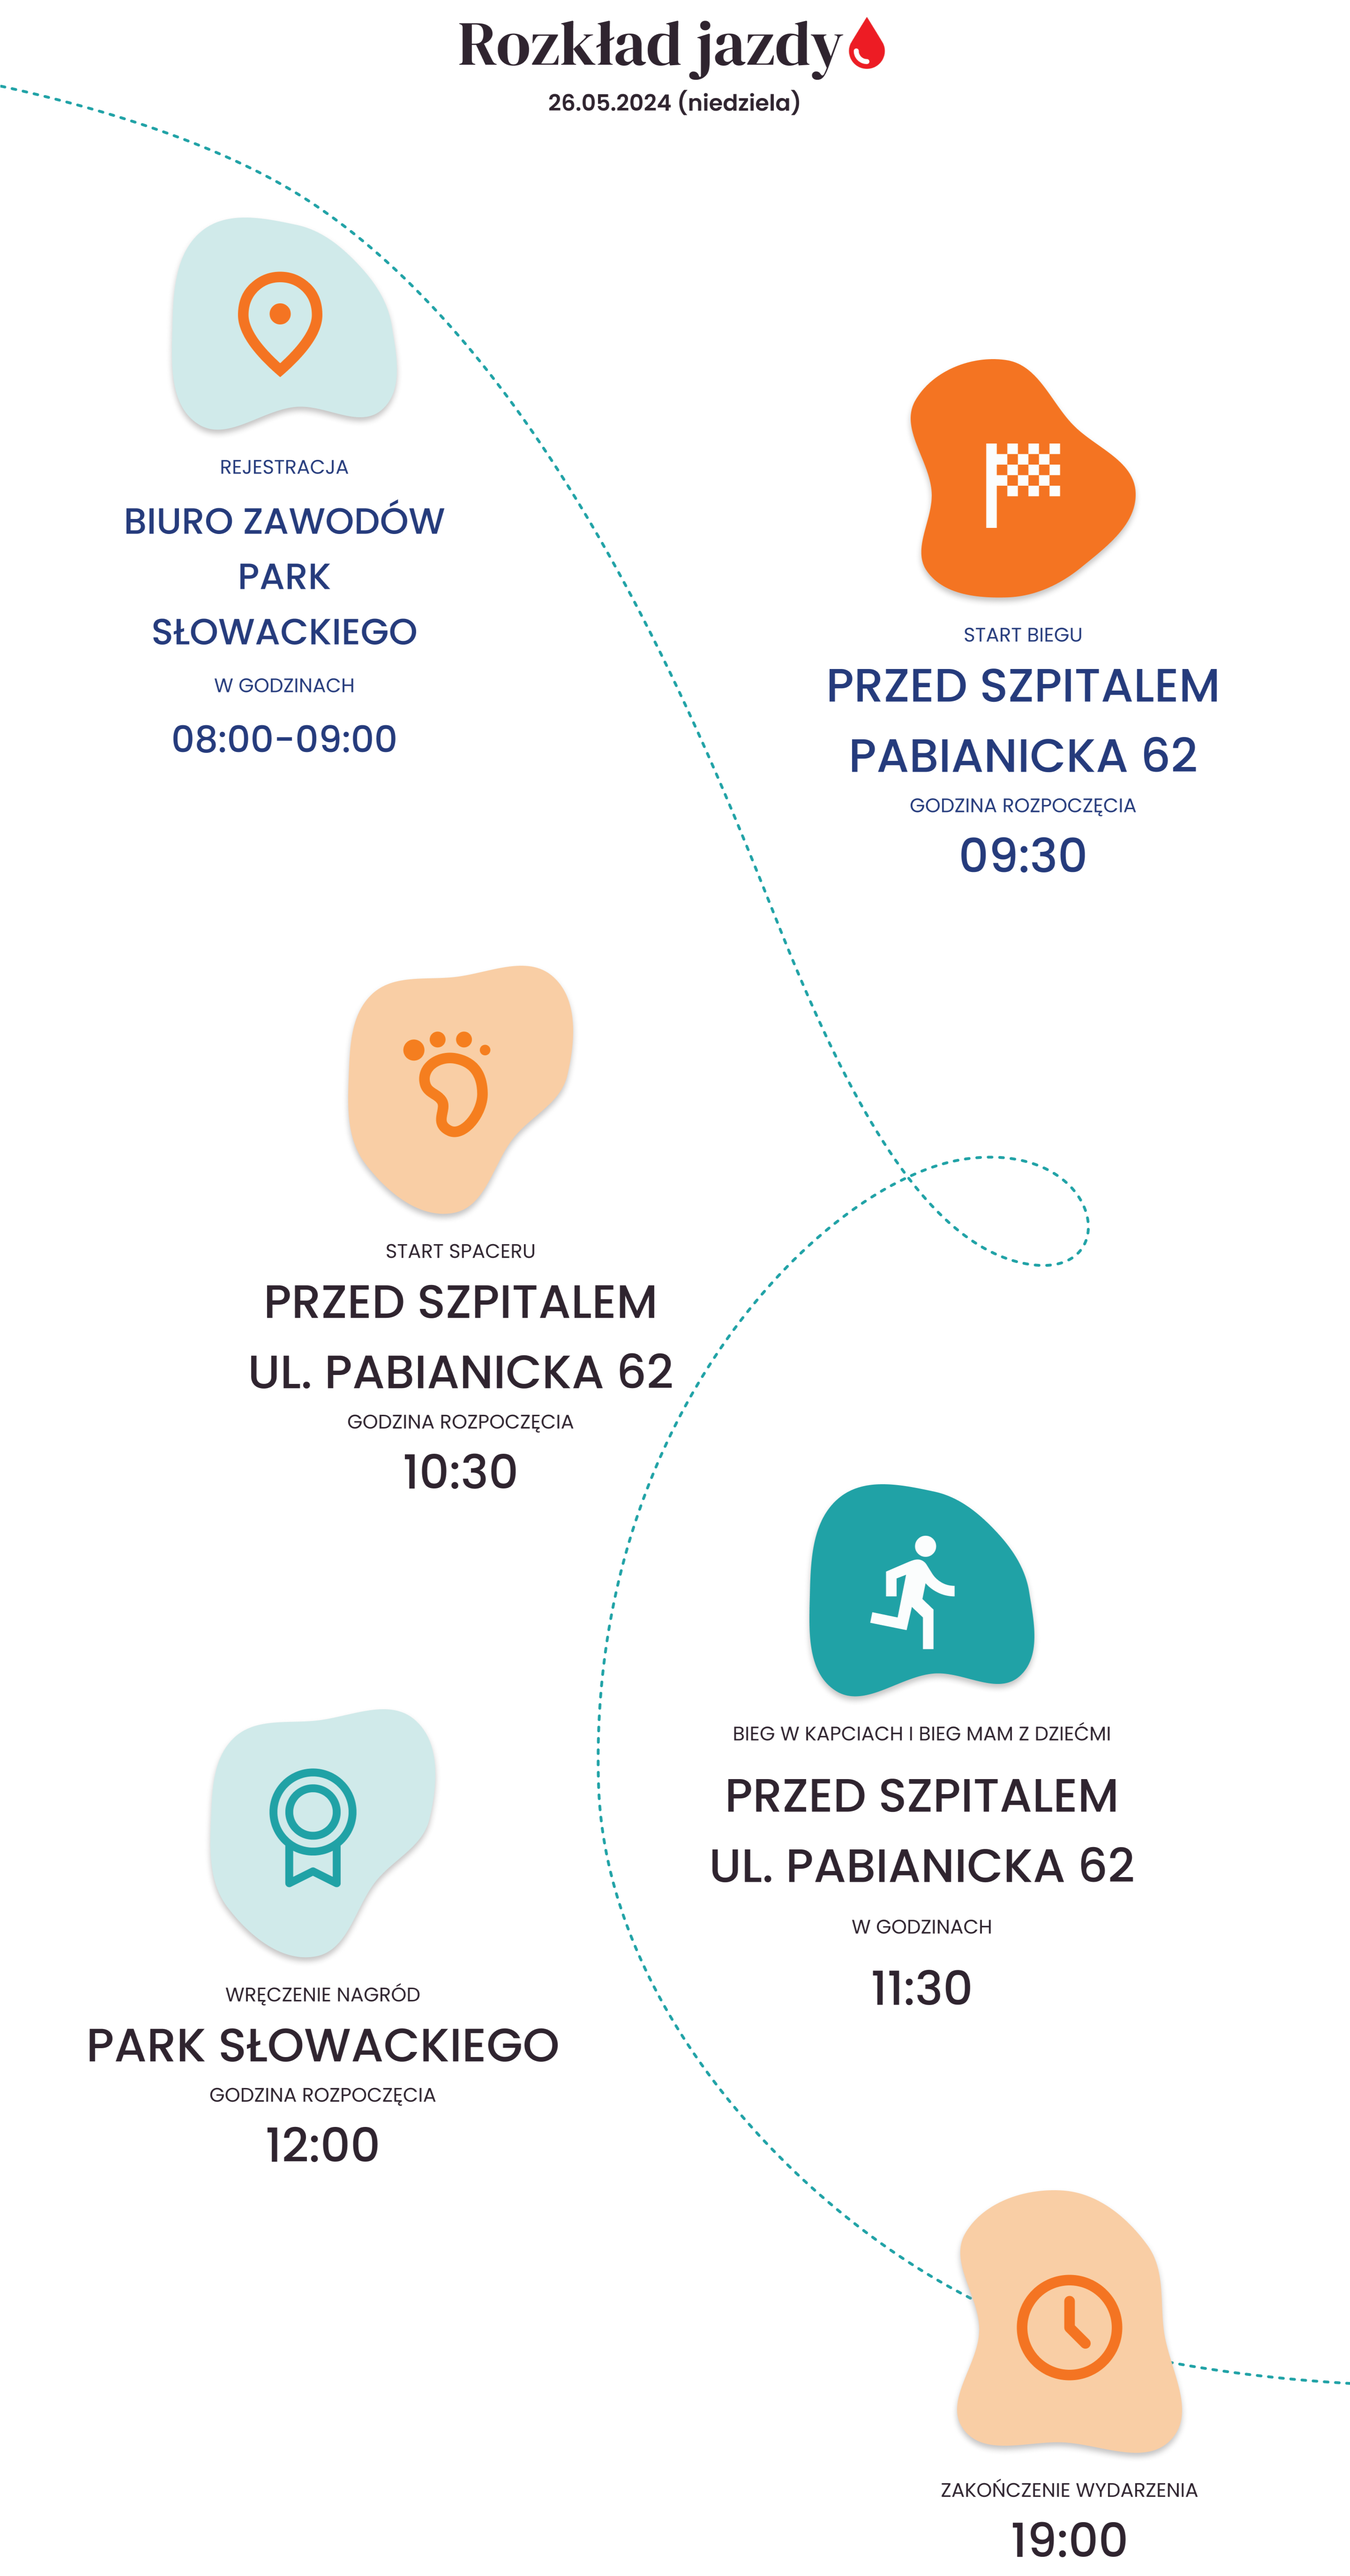
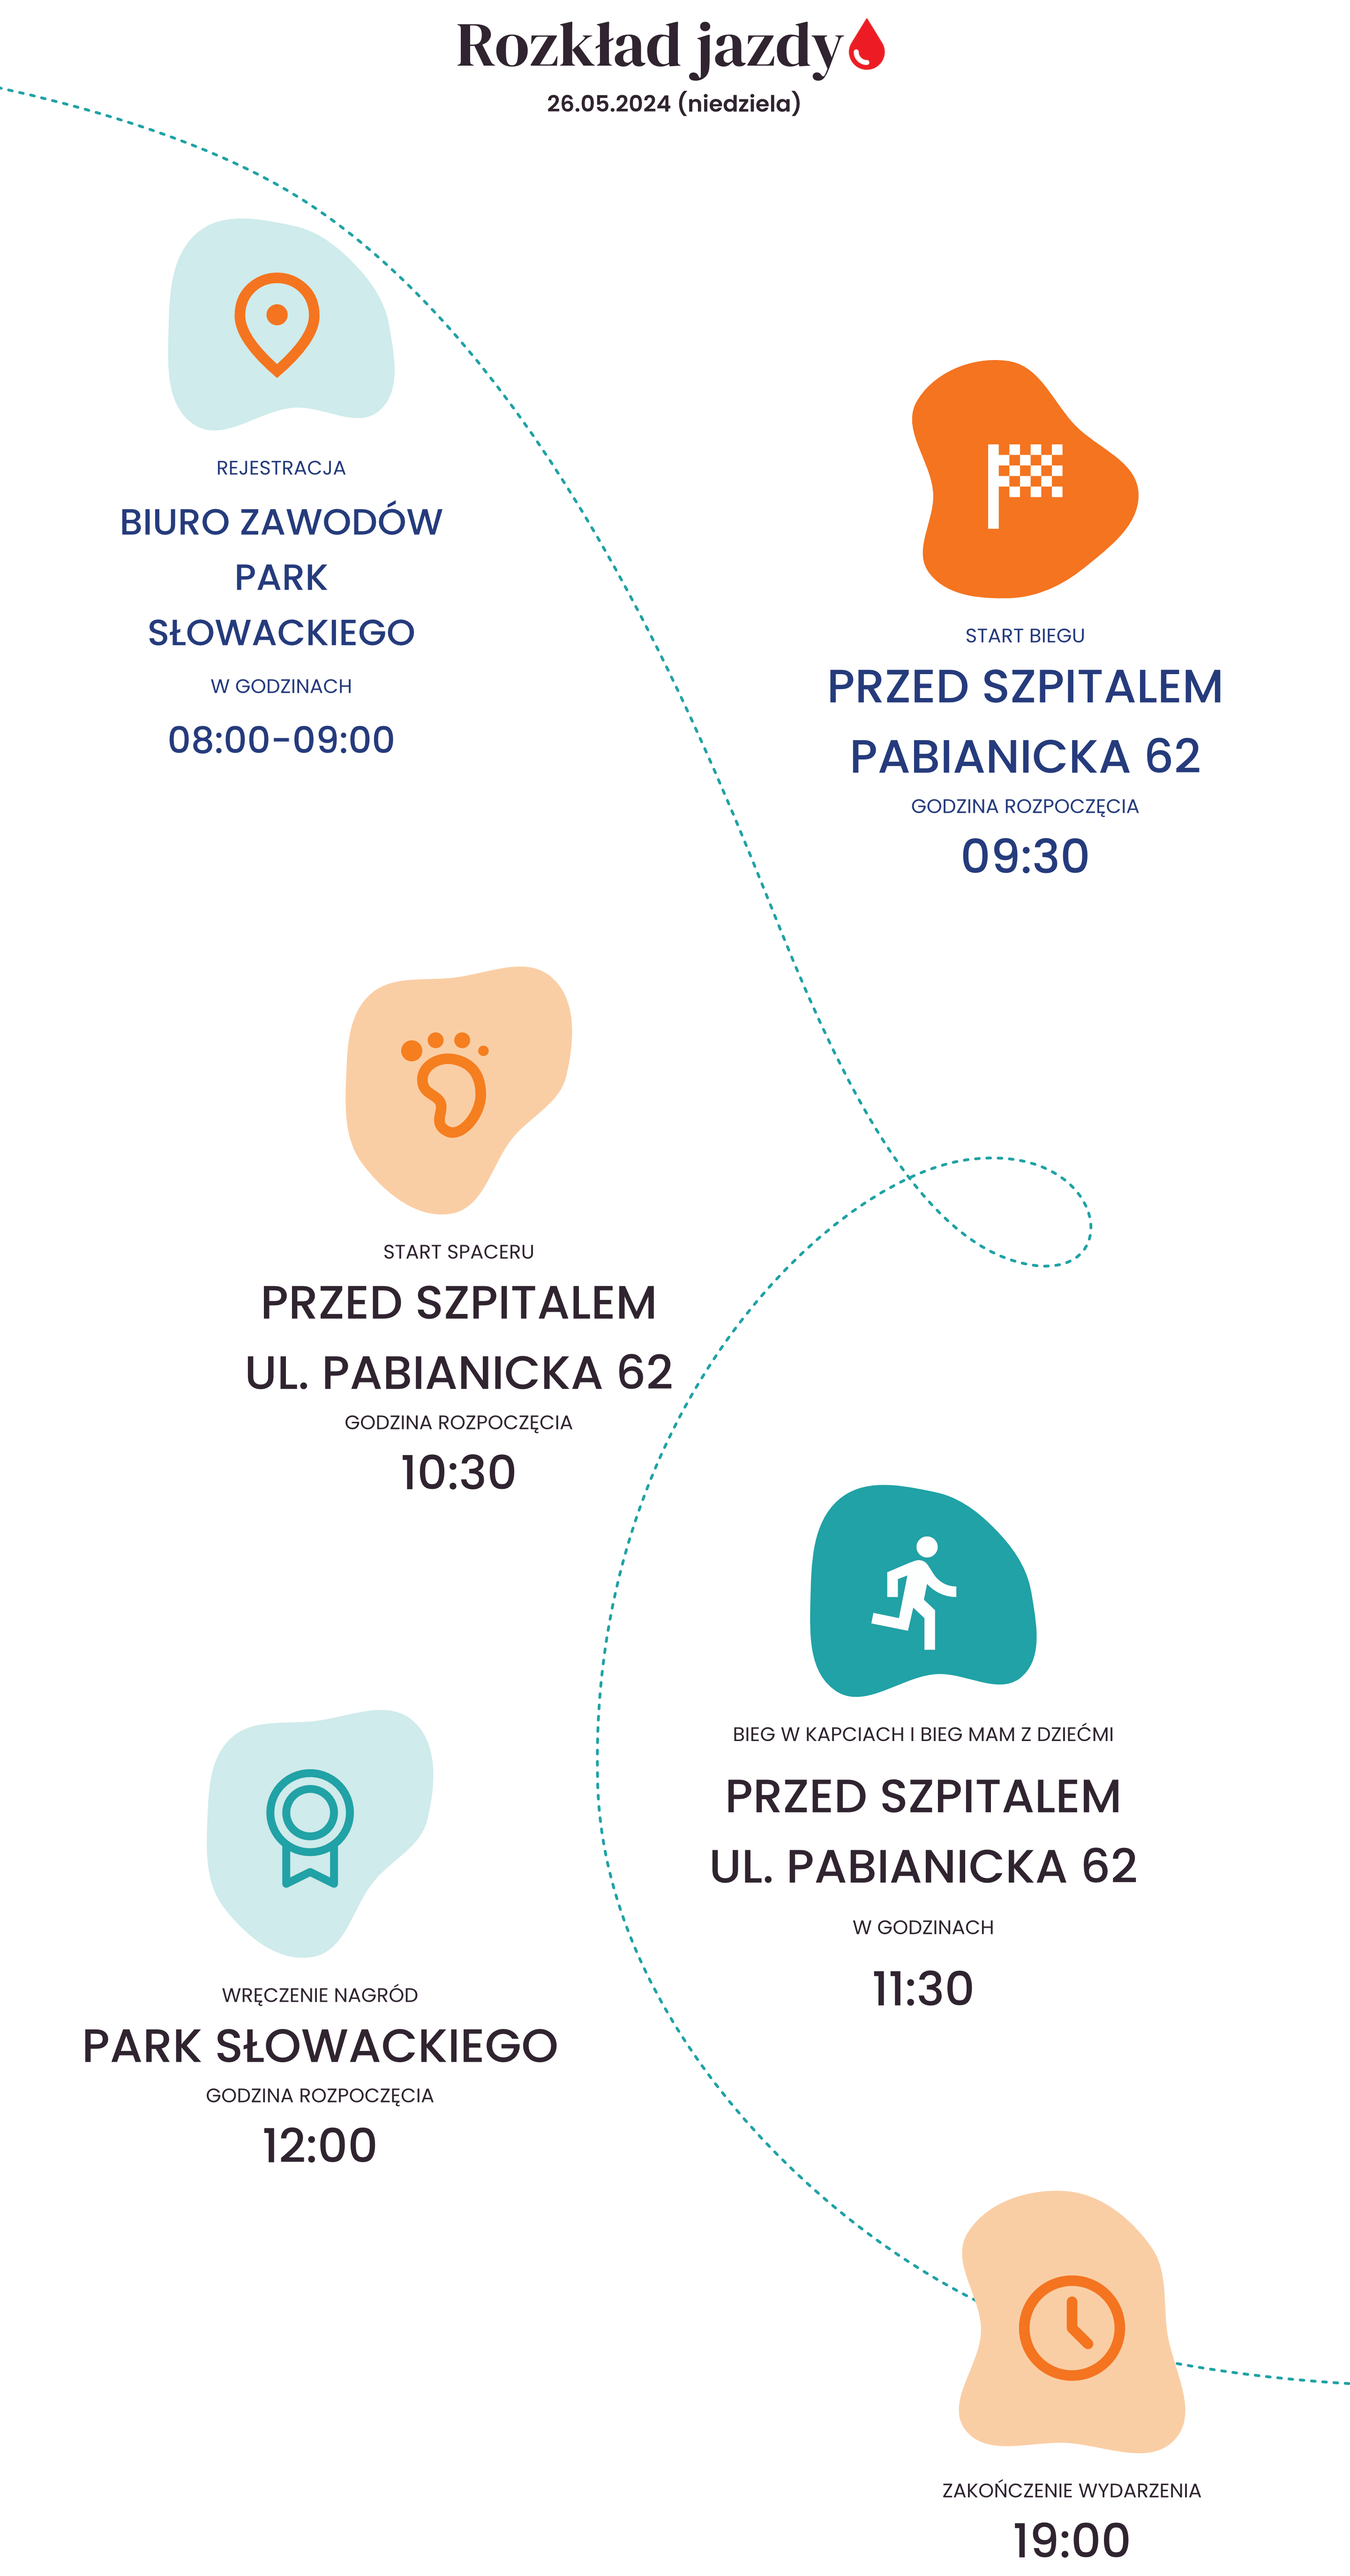
Make timetable image a png with opacity

diff --git a/src/components/ParticipantArea/ParticipantArea.tsx b/src/components/ParticipantArea/ParticipantArea.tsx
@@ -13,7 +13,8 @@ export const ParticipantArea = () => {
         <ParticipantAreaMain />
         <ParticipantAreaProfile />
         <div id="run-info">
-          <Timetable />
+          {/* <Timetable /> */}
+          <img src="../images/timetable.png" />
         </div>
         <ParticipantAreaPrepare />
       </div>
